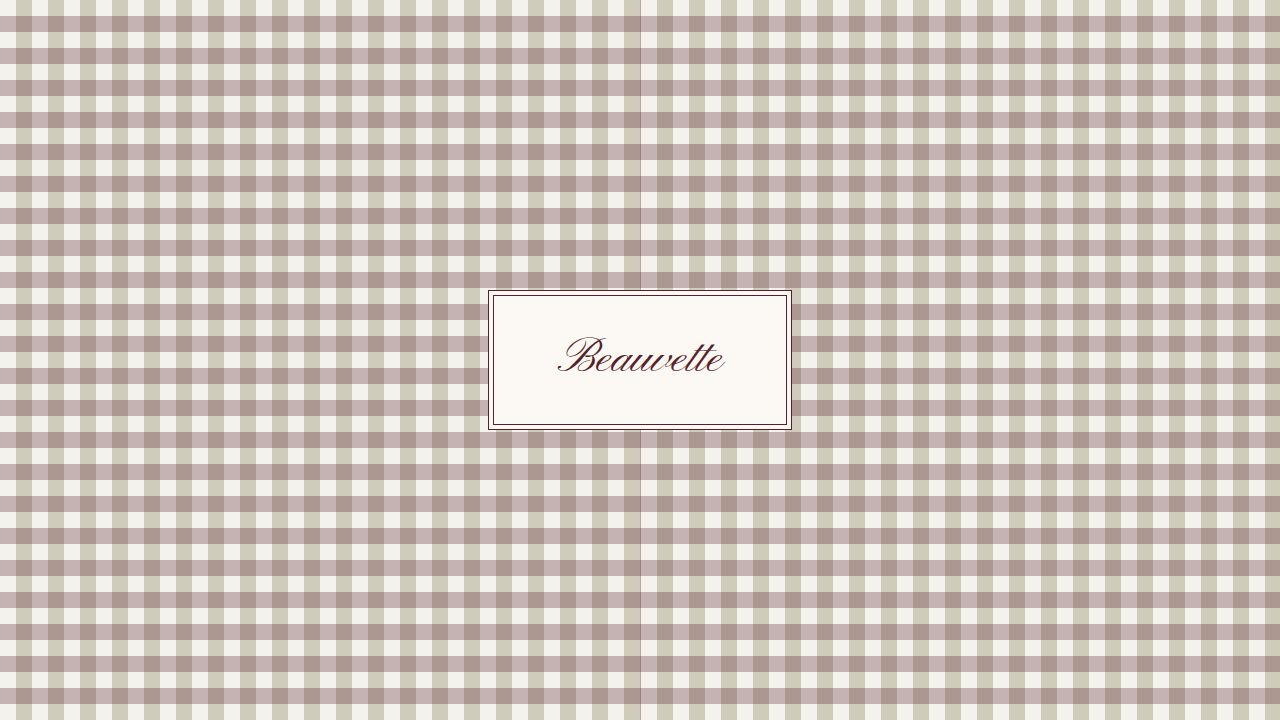
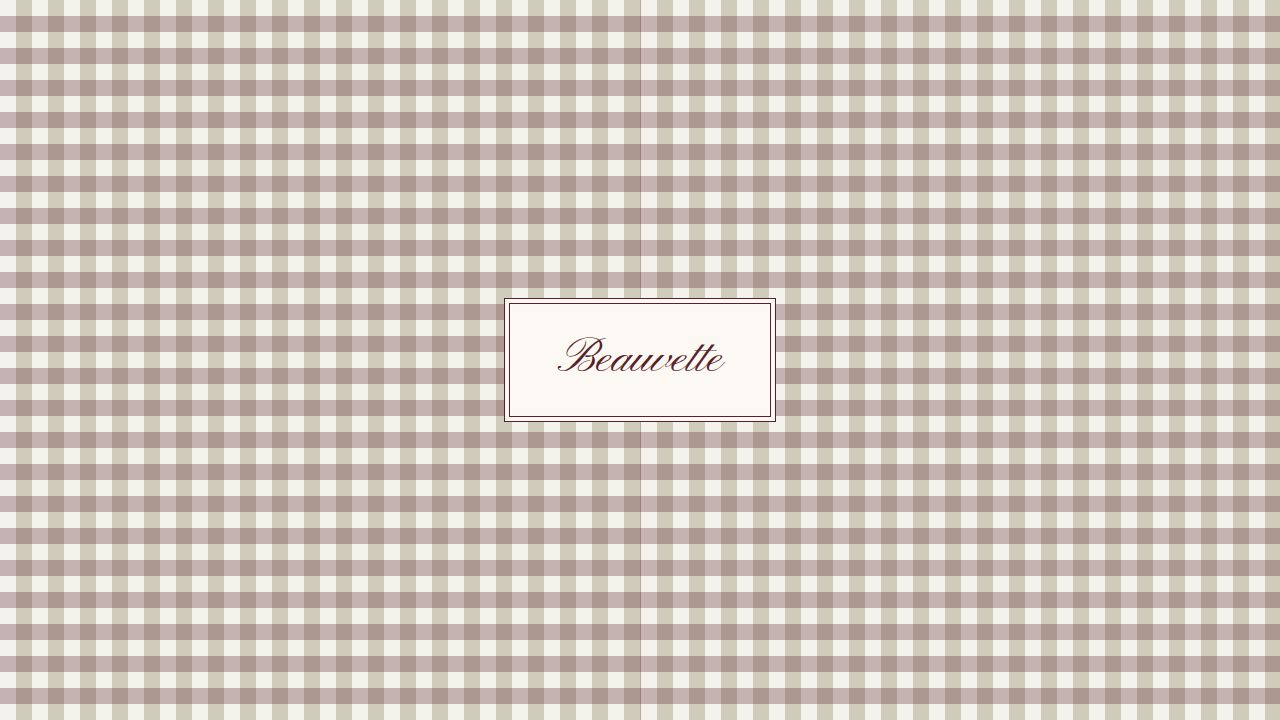
Update landing page text to reflect new messaging and branding
Modify hero section and remove "Secretary" title to align with updated branding and user request.

Replit-Commit-Author: Agent
Replit-Commit-Session-Id: 9a908536-ceaf-424b-a450-6e8c8a214cbe
Replit-Commit-Checkpoint-Type: full_checkpoint
Replit-Commit-Event-Id: 286d90a9-3c61-4cec-bc05-b826d711c47e
Replit-Commit-Screenshot-Url: https://storage.googleapis.com/screenshot-production-us-central1/e8599704-1e72-4097-8c86-37ef455a3ec6/9a908536-ceaf-424b-a450-6e8c8a214cbe/CWpt4fi

Changed region(s): [[0.375, 0.3972, 0.625, 0.6111]]

diff --git a/client/src/pages/Landing.tsx b/client/src/pages/Landing.tsx
@@ -11,9 +11,9 @@ const CONTENT = {
     cta: "Get your secretary"
   },
   hero: {
-    h1: "Beauvette Secretary",
-    h2: "Your assistant answers.",
-    subhead: "Create your availability.",
+    h1: "Beauvette",
+    h2: "Works like you. For you.",
+    subhead: "Behind the scenes, so you don't have to be.",
     supporting: "A smart link that takes bookings, sends contracts, and collects deposits — so you don't have to.",
     primaryCta: "Get your secretary link",
   },
@@ -147,9 +147,6 @@ export default function Landing() {
                   <h1 className="font-script text-4xl md:text-5xl text-[#5A1F2B]">
                     Beauvette
                   </h1>
-                  <p className="text-xs uppercase tracking-[0.3em] text-[#5A1F2B]/70 mt-2">
-                    Secretary
-                  </p>
                 </div>
               </div>
             </motion.div>
